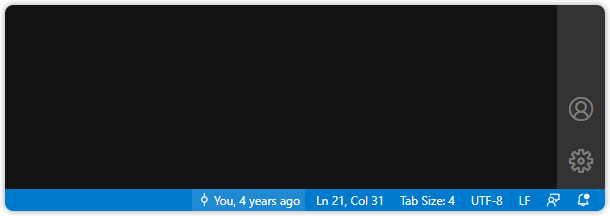
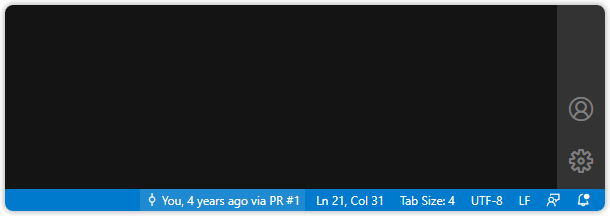
Updates CHANGELOG & README

Changed region(s): [[0.218, 0.8611, 0.4984, 1.0]]

diff --git a/CHANGELOG.md b/CHANGELOG.md
@@ -4,41 +4,61 @@ All notable changes to this project will be documented in this file.
 
 The format is based on [Keep a Changelog](http://keepachangelog.com/) and this project adheres to [Semantic Versioning](http://semver.org/).
 
-## [Unreleased]
+## [11.0.0] - 2020-11-13
 
 ### Added
 
-- Adds all-new views to replace the _Repositories_ view
-  - _Welcome_ view &mdash; quickly setup GitLens to meet your needs
-  - _Commits_ view &mdash; visualize, explore, and manage Git commits
-    - Adds a quick filter toggle to switch between only your commits or everyone's via the _Toggle Authors_ command in the view's toolbar
-  - _Branches_ view &mdash; visualize, explore, and manage Git branches
-  - _Remotes_ view &mdash; visualize, explore, and manage Git remotes and remote branches
-  - _Stashes_ view &mdash; visualize, explore, and manage Git stashes
-  - _Tags_ view &mdash; visualize, explore, and manage Git tags
-  - _Contributors_ view &mdash; visualize, navigate, and explore contributors
-  - The _Repositories_ view can be re-enabled by setting `"gitlens.views.repositories.enabled": true` or via the GitLens Interactive Settings
-- Adds links to the integrated terminal for commits, branches, and tags &mdash; to quickly jump to more details
-- Adds an all-new custom editor for rebasing (TODO: more details & image)
+- Adds all-new views side bar views
+  - _Welcome_ view &mdash; quickly setup GitLens to meet your needs (for first time users only)
+  - [**_Commits_ view**](https://github.com/eamodio/vscode-gitlens#commits-view-) &mdash; visualize, explore, and manage Git commits
+    ![Commits view](https://raw.githubusercontent.com/eamodio/vscode-gitlens/main/images/docs/commits-view.png)
+  - [**_Branches_ view**](https://github.com/eamodio/vscode-gitlens#branches-view-) &mdash; visualize, explore, and manage Git branches
+    ![Branches view](https://raw.githubusercontent.com/eamodio/vscode-gitlens/main/images/docs/branches-view.png)
+  - [**_Remotes_ view**](https://github.com/eamodio/vscode-gitlens#remotes-view-) &mdash; visualize, explore, and manage Git remotes and remote branches
+    ![Remotes view](https://raw.githubusercontent.com/eamodio/vscode-gitlens/main/images/docs/remotes-view.png)
+  - [**_Stashes_ view**](https://github.com/eamodio/vscode-gitlens#stashes-view-) &mdash; visualize, explore, and manage Git stashes
+    ![Stashes view](https://raw.githubusercontent.com/eamodio/vscode-gitlens/main/images/docs/stashes-view.png)
+  - [**_Tags_ view**](https://github.com/eamodio/vscode-gitlens#tags-view-) &mdash; visualize, explore, and manage Git tags
+    ![Tags view](https://raw.githubusercontent.com/eamodio/vscode-gitlens/main/images/docs/tags-view.png)
+  - [**_Contributors_ view**](https://github.com/eamodio/vscode-gitlens#contributors-view-) &mdash; visualize, navigate, and explore contributors
+    ![Contributors view](https://raw.githubusercontent.com/eamodio/vscode-gitlens/main/images/docs/contributors-view.png)
+  - [**_Search & Compare_ view**](https://github.com/eamodio/vscode-gitlens#search-and-compare-view-) &mdash; search and explore commit histories by message, author, files, id, etc, or visualize comparisons between branches, tags, commits, and more
+    ![Search & Compare view](https://raw.githubusercontent.com/eamodio/vscode-gitlens/main/images/docs/search-and-compare-view.png)
+    - Replaces the _Search Commits_ and _Compare Commits_ views
+    - Adds persistence (pinning) for both searches and comparisons
+    - Adds ability to edit existing searches
+  - Adds a new _Toggle History Mode_ command to the [**_File History_ view**](https://github.com/eamodio/vscode-gitlens#file-history-view-) &mdash; which integrates line history into the _File History_ view
+  - Adds staged changes to the [**_File History_ view**](https://github.com/eamodio/vscode-gitlens#file-history-view-)
+  - Adds support for showing history across all branches in the _File History_ view via the _Toggle Filter_ menu option &mdash; closes [#974](https://github.com/eamodio/vscode-gitlens/issues/974)
+  - Adds _Hide Avatars_ and _Show Avatars_ menu options to many GitLens views to hide or show avatars
+  - Adds new indicator icon to unpublished (unpushed) commits
+  - Reworks branch upstream status, including
+- Adds [**terminal links**](https://github.com/eamodio/vscode-gitlens#terminal-links-) &mdash; `ctrl+click` on autolinks in the integrated terminal to quickly jump to more details for commits, branches, tags, and more
+  ![Terminal Links](https://raw.githubusercontent.com/eamodio/vscode-gitlens/main/images/docs/terminal-links.gif)
+- Adds a user-friendly [**interactive rebase editor**](https://github.com/eamodio/vscode-gitlens#interactive-rebase-editor-) to easily configure an interactive rebase session
   ![Rebase Editor](https://raw.githubusercontent.com/eamodio/vscode-gitlens/main/images/docs/rebase.gif)
-  - Includes drag & drop support
-- (PREVIEW) Adds Pull Request information to line annotations and hovers (TODO: more details & image)
-- Adds improved autolinks support
-  - Adds support for GitHub issues or pull requests in autolinks
-  - Adds issue titles to autolinks (if connected)
-  - Adds a new `alphanumeric` flag to autolinks &mdash; closes [#946](https://github.com/eamodio/vscode-gitlens/issues/946)
-  - Adds autolink support in plain text (as footnotes)
-- Adds a new and improved _Gutter Heatmap_ file annotations (via the _Toggle File Heatmap Annotations_ command (`gitlens.toggleFileHeatmap`))
-  - (TODO: image)
+- Adds [**rich integration**](https://github.com/eamodio/vscode-gitlens#remote-provider-integrations-) with GitHub
+  - Adds GitHub avatar support!
+  - Adds associated pull request to line annotations and hovers
+    ![Pull requests on line annotation and hovers](https://raw.githubusercontent.com/eamodio/vscode-gitlens/main/images/docs/hovers-current-line-details.png)
+  - Adds associated pull request to status bar blame
+    ![Pull requests on status bar](https://raw.githubusercontent.com/eamodio/vscode-gitlens/main/images/docs/status-bar.png)
+  - Adds associated pull requests to branches and commits in the GitLens views
+  - Adds autolinks for GitHub issues and pull requests, including titles, status, and authors
+- Adds a new and improved [**_Gutter Heatmap_**](https://github.com/eamodio/vscode-gitlens#gutter-heatmap-) file annotations, via the _Toggle File Heatmap Annotations_ command (`gitlens.toggleFileHeatmap`)
+  ![Gutter Heatmap](https://raw.githubusercontent.com/eamodio/vscode-gitlens/main/images/docs/gutter-heatmap.png)
   - Displays the heatmap in the gutter for a cleaner look and avoids any code jumping
   - Adds improved heatmap colorization for better clarity of old and new code
   - Adds the hot/cold age threshold to GitLens interactive settings editor
-- Adds a new and improved _Gutter Changes_ file annotations (via the _Toggle File Changes Annotations_ command (`gitlens.toggleFileChanges`)) &mdash; closes [#396](https://github.com/eamodio/vscode-gitlens/issues/396)
-  - (TODO: image)
+- Adds a new and improved [**_Gutter Changes_**](https://github.com/eamodio/vscode-gitlens#gutter-changes-) file annotations, via the _Toggle File Changes Annotations_ command (`gitlens.toggleFileChanges`) &mdash; closes [#396](https://github.com/eamodio/vscode-gitlens/issues/396)
+  ![Gutter Changes](https://raw.githubusercontent.com/eamodio/vscode-gitlens/main/images/docs/gutter-changes.png)
   - Provides indicators of local changes, if any, or recent commit changes, and distinguishes between added, changed, and removed lines
   - Similar to the built-in Git gutter changes for un-staged changes, but shows all local (un-pushed) changes
   - Shows a changes hover with the full set of changes (diff hunk) and even with unsaved changes
-- Adds new commands to the _Git Command Palette_
+- Overhauls the renamed [**_Git Command Palette_**](https://github.com/eamodio/vscode-gitlens#git-command-palette-) and adds many new commands
+  ![Git Command Palette](https://raw.githubusercontent.com/eamodio/vscode-gitlens/main/images/docs/git-command-palette.png)
+  - Adds more options to existing commands
+  - Adds improved titles for better clarity, context, and flow
   - Adds a new _history_ (log) command to show the commit history of a branch or tag
     - Adds a _Reveal in Side Bar_ button to the quick pick menu toolbar
     - Adds keyboard navigation
@@ -51,47 +71,66 @@ The format is based on [Keep a Changelog](http://keepachangelog.com/) and this p
       - `alt+right arrow` &mdash; searches for the selected commit and shows the results in the _Search Commits_ view
       - `ctrl+right arrow`, `cmd+right arrow` (macOS) &mdash; reveals the selected commit in the _Commits_ view (or _Repositories_ view, if enabled)
   - Adds a new _status_ command to show the current respository status
-  - Adds a new _Delete Branch & Remote_ & _Force Delete Branch & Remote_ options to the _branch delete_ command &mdash; to more easily delete branches with tracking branches
+  - Adds a new _Delete Branch & Remote_ and _Force Delete Branch & Remote_ options to the _branch delete_ command &mdash; to more easily delete branches with tracking branches
   - Adds ability pull (fetch) a specific branch(es) to the _pull_ command &mdash; closes [#873](https://github.com/eamodio/vscode-gitlens/issues/873)
   - Adds a new _Publish Branch_ option to the _push_ command
   - Adds ability to push a single branch to the _push_ command
   - Adds a new _Soft Reset_ (`--soft`) option to the _reset_ command
-- Adds a new _Toggle File/Line History_ command to the _File History_ view &mdash; which integrates line history into the _File History_ view
-- Adds staged changes to the _File History_ and _Line History_ views
-- Adds a new _Open File from Remote_ (`gitlens.openFileFromRemote`) command &mdash; opens the local file from a remote file url
-- Adds a new _Copy Remote Commit Url_ (`gitlens.copyRemoteCommitUrl`) command &mdash; copies the remote url of the current line commit to the clipboard
-- Adds new `alt` commands for many of the _Open \* on Remote_ commands to alternatively copy the url to the clipboard
+- Overhauls all GitLens contributed menus to reduce noise and improve usability
+- Adds improved autolinks support
+  - Adds a new `alphanumeric` flag to autolinks &mdash; closes [#946](https://github.com/eamodio/vscode-gitlens/issues/946)
+  - Adds autolink support in plain text (as footnotes)
+- Adds `alt+click` commands for many of the _Open \* on Remote_ commands to alternatively copy the url to the clipboard
 - Adds new ability to set the default remote from any of the _Open \* on Remote_ command quick pick menus
 - Adds much improved co-author support
   - Provides an updatable quick pick of co-authors
   - Adds the _Add Co-authors_ (`gitlens.addAuthors`) command to the Source Control toolbar
   - Adds an option to the _Menus & Toolbars_ section of GitLens interactive settings editor to show/hide the _Add Co-authors_ command on the Source Control toolbar
 - Adds new _Git Code Lens_ options to disable the click actions on both the recent change and authors code lens &mdash; closes [#989](https://github.com/eamodio/vscode-gitlens/issues/989) thanks to [PR #1009](https://github.com/eamodio/vscode-gitlens/pull/1009) by Abdulrahman (Abdu) Assabri ([@abdusabri](https://github.com/abdusabri))
+- Adds per-language customizations to the `gitlens.codeLens.scopes` and `gitlens.codeLens.symbolScopes` settings &mdash; closes [#977](https://github.com/eamodio/vscode-gitlens/issues/977)
+- Adds _Git Code Lens_ markdown headers
+- Adds many new commands
+  - _Open File from Remote_ (`gitlens.openFileFromRemote`) command &mdash; opens the local file from a remote file url
+  - _Set Views Layout_ (`gitlens.setViewsLayout`) command &mdash; quickly switch between showing GitLens views in _GitLens_ sidebar (default) and the _Source Control_ sidebar
+  - Adds a _Switch to Another Branch_ (`gitlens.views.switchToAnotherBranch`) command &mdash; to quickly switch the current branch
+  - _Copy Remote Commit Url_ command (`gitlens.copyRemoteCommitUrl`) &mdash; copies the url of the current line commit on the remote provider
+  - _Copy Remote Branch Url_ command (`gitlens.copyRemoteBranchUrl`) &mdash; copies the url of a branch on the remote provider
+  - _Copy Remote Branches Url_ command (`gitlens.copyRemoteBranchesUrl`) &mdash; copies the url of the branches on the remote provider
+  - _Open Comparison on Remote_ command (`gitlens.openComparisonOnRemote`) &mdash; opens the comparison on the remote provider
+  - _Copy Remote Comparison Url_ command (`gitlens.copyRemoteComparisonUrl`) &mdash; copies the url of the comparison on the remote provider
+  - _Open Pull Request_ command (`gitlens.openPullRequestOnRemote`) &mdash; opens the pull request on the remote provider
+  - _Copy Pull Request Url_ command (`gitlens.copyRemotePullRequestUrl`) &mdash; copies the url of the pull request on the remote provider
+  - _Copy Remote Repository Url_ command (`gitlens.copyRemoteRepositoryUrl`) &mdash; copies the url of the repository on the remote provider
+- Adds an _Open Commit on Remote_ command (with an _Copy Remote Commit Url_ `alt+click` command) to commits in the VS Code Timeline view
 - Adds a new default click action on changed files nodes in GitLens views to open all changes
 - Adds a new `gitlens.hovers.avatarSize` setting to customize the size of avatars shown in hovers
   - Increases the default avatar size in hovers from 16px to 32px
 - Adds new _Welcome_ and _Open Settings_ menu options to the GitLens context/gear menu in the _Extensions_ sidebar &mdash; closes [#952](https://github.com/eamodio/vscode-gitlens/issues/952) & [#953](https://github.com/eamodio/vscode-gitlens/issues/953) thanks to [PR #992](https://github.com/eamodio/vscode-gitlens/pull/992) by Zeeshan Adnan ([@zeeshanadnan](https://github.com/zeeshanadnan))
-- Adds a new _Set Views Layout_ (`gitlens.setViewsLayout`) command &mdash; quickly switch between showing GitLens views in _GitLens_ sidebar (default) and the _Source Control_ sidebar
 - Adds a _Clear_ command to branch comparison nodes in the _Commits_ and _Repositories_ views
-- Adds a _Hide Branch Comparison_ command to branch comparison nodes in the _Commits_ view
-- Adds a _Hide/Show Branch Comparison_ toggle command to the _Commits_ views
 - Adds HEAD option to compare quick pick menu &mdash; closes [#927](https://github.com/eamodio/vscode-gitlens/issues/927)
-- Adds per-language customizations to the `gitlens.codeLens.scopes` and `gitlens.codeLens.symbolScopes` settings &mdash; closes [#977](https://github.com/eamodio/vscode-gitlens/issues/977)
-- Adds support for showing history across all branches in the _File History_ view via the _Show Commits from All Branches_ menu option &mdash; closes [#974](https://github.com/eamodio/vscode-gitlens/issues/974)
 - Adds support for `.gitattributes` text conversion filters &mdash; closes [#866](https://github.com/eamodio/vscode-gitlens/issues/866) thanks to [PR #1052](https://github.com/eamodio/vscode-gitlens/pull/1052) by Martin Campbell ([@martin-css](https://github.com/martin-css))
-- Adds a _Switch to Another Branch_ (`gitlens.views.switchToAnotherBranch`) command &mdash; to quickly switch the current branch
-- Adds a menu option to GitLens views to show or hide avatars
+- Adds week(s) ago to relative time formatting
+- Adds real-time preview when editing format strings in the GitLens interactive settings editor
+- Adds a new commit format tokens: `${authorNotYou}`, `${agoOrDateShort}`, `${authorAgoOrDateShort}`, `${committerAgoOrDateShort}`
+- Adds compact mode for showing branch and tag tips on commits
+- Adds toggle for relative date markers in GitLens views
+- Adds _Copy SHA_ command to branches and tags
+- Adds a limit of 5000 commits to the _Load All_ command
+- Adds synchronized storage to avoid Welcome page and upgrade notifications on new machines with Settings Sync
 
 ### Changed
 
 - Changes all GitLens views to be on the Source Control side bar by default, but you can still move them all to the GitLens side bar via the _Set Views Layout_ (`gitlens.setViewsLayout`) command or individually via drag and drop
-- Integrates the _Line History_ view into the _File History_ view, although the old _Line History_ view can be re-enabled by setting `"gitlens.views.lineHistory.enabled": true` or via the GitLens Interactive Settings
-  - File vs Line History can be toggled via the _Toggle File/Line History_ command in the view's toolbar
+- Changes the _Repositories_ view to be disabled by default, as it has been superseded by the many new views. It can be re-enabled by setting `"gitlens.views.repositories.enabled": true` or via the GitLens Interactive Settings
+- Deprecates and integrates the _Line History_ view into the _File History_ view, although the old _Line History_ view can be re-enabled by setting `"gitlens.views.lineHistory.enabled": true` (although it will likely be removed in a future version)
+  - File vs Line History can be toggled via the _Toggle History Mode_ command in the view's toolbar
   - Renames _Pause/Resume File Tracking_ toggle to be _Pin/Unpin the Current File History_
 - Overhauls the newly renamed _Git Command Palette_ (`gitlens.gitCommands`) quick pick menus
   - Adds many more options
   - Adds improved titles for better clarity, context, and flow
   - Removes the _Keep Open_ toggle button to the quick pick menu toolbar &mdash; the behavior is now automatically determined (unless overridden by the `gitlens.gitCommands.closeOnFocusOut` setting)
+- Changes comparisons results into ahead and behind groups
+- Changes the _Open Settings_ and _Welcome_ pages to open beside the active editor
 - Changes avatars in the blame file annotations to new be displayed as part of the annotations rather than in the gutter
 - Changes the _Git Command Palette_'s _push_ command to honor and reflect the `git.useForcePushWithLease` setting
 - Changes to use VS Code's built-in icons (codicons) where possible &mdash; closes [#985](https://github.com/eamodio/vscode-gitlens/issues/985)
@@ -99,29 +138,62 @@ The format is based on [Keep a Changelog](http://keepachangelog.com/) and this p
 - Changes to use codicons in hovers &mdash; closes [#954](https://github.com/eamodio/vscode-gitlens/issues/954)
 - Changes revision navigation icons to better match VS Code
 - Changes _Show More_ to _Load more_ in GitLens views
+- Changes the date markers in GitLens views to be less prominent, and avoids showing the marker if it is first item
 - Changes the sorting of branches so that _main_, _master_, and _develop_ are at the top
-- Changes the sorting of remotes so that _origin_ is at the top &mdash; closes [#924](https://github.com/eamodio/vscode-gitlens/issues/924) &mdash; thanks to [PR #925](https://github.com/eamodio/vscode-gitlens/pull/925) by Connor Peet ([@connor4312](https://github.com/connor4312))
+- Changes the sorting of branch and tag pickers to be by date descending
+- Changes the sorting of remotes so that _origin_ is at the top &mdash; closes [#924](https://github.com/eamodio/vscode-gitlens/issues/924) &mdash; thanks to [PR #925](https://github.com/eamodio/vscode-gitlens/pull/925) - Changes the sorting of branches and tags in the _Git Commands Palette_ to be by date descending
+- Changes the default sorting of tags to be by date descending
+  by Connor Peet ([@connor4312](https://github.com/connor4312))
 - Changes to allow autolinks inside parentheses and square brackets
 - Changes the default current line format to show the message before the author
 - Changes the default blame annotation format to show 50 characters (instead of 40)
 - Changes the comparison icons in GitLens views
+- Changes to use the `onStartupFinished` activation to avoid slowing down VS Code startup
+- Changes `gitlens.strings.codeLens.unsavedChanges.*` settings defaults to be much less intrusive now
 - Renames _Show Commit Details_ command to _Show Commit_
 - Renames _Show More_ command in views to _Load more_
 - Aligns many commit quick pick menu commands and commit context menu commands
 - Replaces _Push to Commit (via Terminal)_ command with a new _Push to Commit_ command
 - Swaps the order of _Open Revision_ and _Open File_ on file revisions
+- Updates emoji support in commit messages
+- Limits `scm/resourceGroup/context` and `scm/resourceState/context` menu contributions
 - Optimizes file system watcher for repository changes (ignores .gitignored files)
 - Improves the performance of the _Details_ hover
 - Improves the performance of the _Contributors_ node in the _Repositories_ view
 - Improves the performance (and experience) when opening multiple files or revisions
 - Marks the current user with a `(you)` suffix and moves it to the top of the _Contributors_ node in the _Repositories_ view
-- Deprecates the `gitlens.codeLens.scopesByLanguage` setting. Use per-language `gitlens.codeLens.scopes`and`gitlens.codeLens.symbolScopes` settings instead
+- Deprecates the `gitlens.codeLens.scopesByLanguage` setting, use per-language `gitlens.codeLens.scopes`and`gitlens.codeLens.symbolScopes` settings instead
+- Deprecates the `gitlens.gitCommands.search.showResultsInView` setting as it has been renamed to `gitlens.gitCommands.search.showResultsInSideBar`
+- Deprecates the `gitlens.views.commitFileFormat` setting, use `gitlens.views.formats.files.label` instead
+- Deprecates the `gitlens.views.commitFileDescriptionFormat` setting, use `gitlens.views.formats.files.description` instead
+- Deprecates the `gitlens.views.commitFormat` setting, use `gitlens.views.formats.commits.label` instead
+- Deprecates the `gitlens.views.commitDescriptionFormat` setting, use `gitlens.views.formats.commits.description` instead
+- Deprecates the `gitlens.views.stashFileFormat` setting, use `gitlens.views.formats.files.label` instead
+- Deprecates the `gitlens.views.stashFileDescriptionFormat` setting, use `gitlens.views.formats.files.description` instead
+- Deprecates the `gitlens.views.stashFormat` setting, use `gitlens.views.formats.stashes.label` instead
+- Deprecates the `gitlens.views.stashDescriptionFormat` setting, use `gitlens.views.formats.stashes.description` instead
+- Deprecates the `gitlens.views.statusFileFormat` setting, use `gitlens.views.formats.files.label` instead
+- Deprecates the `gitlens.views.statusFileDescriptionFormat` setting, use `gitlens.views.formats.files.description` instead
+- Removes unneeded collapse all from the _File History_ view
+- Removes the associated commit sha from tag descriptions
+- Removes `${changes}` token from commit description format by default
+- Removes the _Keep Open_ toggle button on the _Git Command Palette_ toolbar &mdash; the behavior is now automatically determined (unless overridden by the `gitlens.gitCommands.closeOnFocusOut` setting)
 - Removes the heart icon from all GitLens views and simplifies the sponsor command
 - Removes many view visibility (enablement) settings as the control over a views visibility is more easily controlled directly by unchecking the view itself
 - Removes the `gitlens.views.repositories.showTrackingBranch` setting as it is now always enabled
 
 ### Fixed
 
+- Fixes diffs of renamed files in certain cases
+- Fixes [#1139](https://github.com/eamodio/vscode-gitlens/issues/1139) - Git crash with v2.29.x
+- Fixes typo forcably -> forcibly &mdash; thanks to [PR #1138](https://github.com/eamodio/vscode-gitlens/pull/1138) by Andrea Cigana ([@ciganandrea](https://github.com/ciganandrea))
+- Fixes missing empty (non-merge) commits
+- Fixes issue with a blank branch name before any commits exist
+- Fixes issues with missing repository or file system change events while vs code is unfocused
+- Fixes remote url issues with spaces in the filename
+- Fixes issue where <remote>/HEAD was showing up as a branch
+- Fixes issues with revision navigation commands and diff editors
+- Fixes show command with single file commits
 - Fixes delete of remote branches on the _Git Command Palette_'s _branch_ command
 - Fixes _Git Command Palette_'s back tracking in certain cases
 - Fixes issue to ensure that dropping a stash drops the correct item even if the view is out of date

diff --git a/README.md b/README.md
@@ -59,8 +59,8 @@ Here are just some of the **features** that GitLens provides,
   - [commits](#quick-commit-access- 'Jump to Quick Commit Access') &mdash; history and search
   - [stashes](#quick-stash-access- 'Jump to Quick Stash Access')
   - [status](#quick-status-access- 'Jump to Quick Status Access') &mdash; current branch and working tree status
-- a user-friendly [**interactive rebase editor**](#interactive-rebase-editor- 'Jump to the Interactive Rebase Editor') to more easily configure an interactive rebase session
-- [**terminal links**](#terminal-links- 'Jump to Terminal Links') &mdash; ctrl + click on auto-links in the integrated terminal to quickly jump to more details for commits, branches, tags, and more
+- a user-friendly [**interactive rebase editor**](#interactive-rebase-editor- 'Jump to the Interactive Rebase Editor') to easily configure an interactive rebase session
+- [**terminal links**](#terminal-links- 'Jump to Terminal Links') &mdash; `ctrl+click` on autolinks in the integrated terminal to quickly jump to more details for commits, branches, tags, and more
 - rich [**remote provider integrations**](#remote-provider-integrations- 'Jump to Remote Provider Integrations') &mdash; GitHub, GitLab, Bitbucket, Azure DevOps
   - issue and pull request auto-linking
   - rich hover information provided for linked issues and pull requests (GitHub only)
@@ -214,7 +214,7 @@ Here are just some of the **features** that GitLens provides,
   - Adds a _Toggle File Blame Annotations_ command (`gitlens.toggleFileBlame`) with a shortcut of `alt+b` to toggle the blame annotations on and off
   - Press `Escape` to turn off the annotations
 
-## Gutter Changes [#](#changes- 'Gutter Changes')
+## Gutter Changes [#](#gutter-changes- 'Gutter Changes')
 
 <p align="center">
   <img src="https://raw.githubusercontent.com/eamodio/vscode-gitlens/main/images/docs/gutter-changes.png" alt="Gutter Changes" />
@@ -256,7 +256,7 @@ The _Commits_ view lists all of the commits on the current branch, and additiona
   - **Ahead** &mdash; lists the commits that the current branch has (i.e. ahead) but are missing in the selected reference
     - **# files changed** &mdash; lists all of the files changed between the compared references
 - the current branch status &mdash; shows the upstream status of the current branch
-  - **Publish &lt;current branch&gt; to remote** &mdash; shown when the current branch has not been published to a remote
+  - **Publish &lt;current branch&gt; to &lt;remote&gt;** &mdash; shown when the current branch has not been published to a remote
   - **Up to date with &lt;remote&gt;** &mdash; shown when the current branch is up to date with the upstream remote
   - **Changes to push to &lt;remote&gt;** &mdash; lists of all the files changed in the unpublished commits when the current branch has (unpublished) commits that waiting to be pushed to the upstream remote
   - **Changes to pull from &lt;remote&gt;** &mdash; lists all of the commits waiting to be pulled when the current branch has commits that are waiting to be pulled from the upstream remote
@@ -306,6 +306,7 @@ The _Branches_ view lists all of the local branches, and additionally provides,
   - **Ahead** &mdash; lists the commits that the branch has (i.e. ahead) but are missing in the selected reference
     - **# files changed** &mdash; lists all of the files changed between the compared references
 - the branch status &mdash; shows the upstream status of the branch
+  - **Publish &lt;branch&gt; to &lt;remote&gt;** &mdash; shown when the current branch has not been published to a remote
   - **Changes to push to &lt;remote&gt;** &mdash; lists of all the files changed in the unpublished commits when the branch has (unpublished) commits that waiting to be pushed to the upstream remote
   - **Changes to pull from &lt;remote&gt;** &mdash; lists all of the commits waiting to be pulled when the branch has commits that are waiting to be pulled from the upstream remote
 - any associated pull request &mdash; shows any pull request associated with the branch
@@ -377,8 +378,7 @@ The _Contributors_ view lists all of the contributors, and additionally provides
   <img src="https://raw.githubusercontent.com/eamodio/vscode-gitlens/main/images/docs/search-and-compare-view.png" alt="Search & Compare view" />
 </p>
 
-A [customizable](#search-&-compare-view-settings- 'Jump to the Search & Compare view settings'), hidden by default, view to search and explore commit histories by message, author, files, id, etc, or visualize comparisons between
-branches, tags, commits, and more
+A [customizable](#search-&-compare-view-settings- 'Jump to the Search & Compare view settings'), hidden by default, view to search and explore commit histories by message, author, files, id, etc, or visualize comparisons between branches, tags, commits, and more
 
 The _Search & Compare_ view lists pinnable (saved) results for searching commit histories or for comparison operations, and additionally provides,
 
@@ -414,7 +414,7 @@ The _Search & Compare_ view lists pinnable (saved) results for searching commit 
   <img src="https://raw.githubusercontent.com/eamodio/vscode-gitlens/main/images/docs/repositories-view.png" alt="Repositories view" />
 </p>
 
-A [customizable](#repositories-view-settings- 'Jump to the Repositories view settings'), hidden by default (as it has been superseded by the new views), view to visualize, navigate, and explore Git repositories
+A [customizable](#repositories-view-settings- 'Jump to the Repositories view settings'), hidden by default as it has been superseded by the new views, view to visualize, navigate, and explore Git repositories
 
 The Repositories view lists opened Git repositories, and additionally provides,
 
@@ -527,14 +527,14 @@ The Repositories view lists opened Git repositories, and additionally provides,
   <img src="images/docs/terminal-links.gif" alt="Terminal Links" />
 </p>
 
-- Adds auto-links for branches, tags, and commit ranges in the integrated terminal to quickly explore their commit history
-- Adds auto-links for commits in the integrated terminal to quickly explore the commit and take action upon it
+- Adds autolinks for branches, tags, and commit ranges in the integrated terminal to quickly explore their commit history
+- Adds autolinks for commits in the integrated terminal to quickly explore the commit and take action upon it
 
 ## Remote Provider Integrations [#](#remote-provider-integrations- 'Remote Provider Integrations')
 
 GitLens provides rich integrations with many remote providers, including GitHub, GitHub Enterprise, GitLab, Bitbucket, Bitbucket Server, Azure DevOps. You can also define [custom remote providers](#custom-remotes-settings 'Jump to the Custom Remotes settings') or [remote providers with custom domains](#custom-remotes-settings 'Jump to the Custom Remotes settings') as well.
 
-Basic integrations provide issue and pull request auto-linking, while richer integrations (e.g. GitHub) can provide rich hover information provided for auto-linked issues and pull requests, and associate pull requests with branches and commits.
+Basic integrations provide issue and pull request auto-linking, while richer integrations (e.g. GitHub) can provide rich hover information provided for auto-linked issues and pull requests, associate pull requests with branches and commits, and provide avatars.
 
 Additionally, these integrations provide commands to copy the url of or open, files, commits, branches, and the repository on the remote provider.
 
@@ -560,6 +560,8 @@ Additionally, these integrations provide commands to copy the url of or open, fi
 
 - Adds a _Copy SHA_ command (`gitlens.copyShaToClipboard`) to copy the commit id (sha) of the current line to the clipboard or from the most recent commit to the current branch, if there is no current editor
 - Adds a _Copy Message_ command (`gitlens.copyMessageToClipboard`) to copy the commit message of the current line to the clipboard or from the most recent commit to the current branch, if there is no current editor
+
+- Adds a _Switch to Another Branch_ (`gitlens.views.switchToAnotherBranch`) command &mdash; to quickly switch the current branch
 
 - Adds a _Compare HEAD with..._ command (`gitlens.diffHeadWith`) to compare the index (HEAD) with the selected reference
 - Adds a _Compare Working Tree with..._ command (`gitlens.diffWorkingWith`) to compare the working tree with the selected reference
